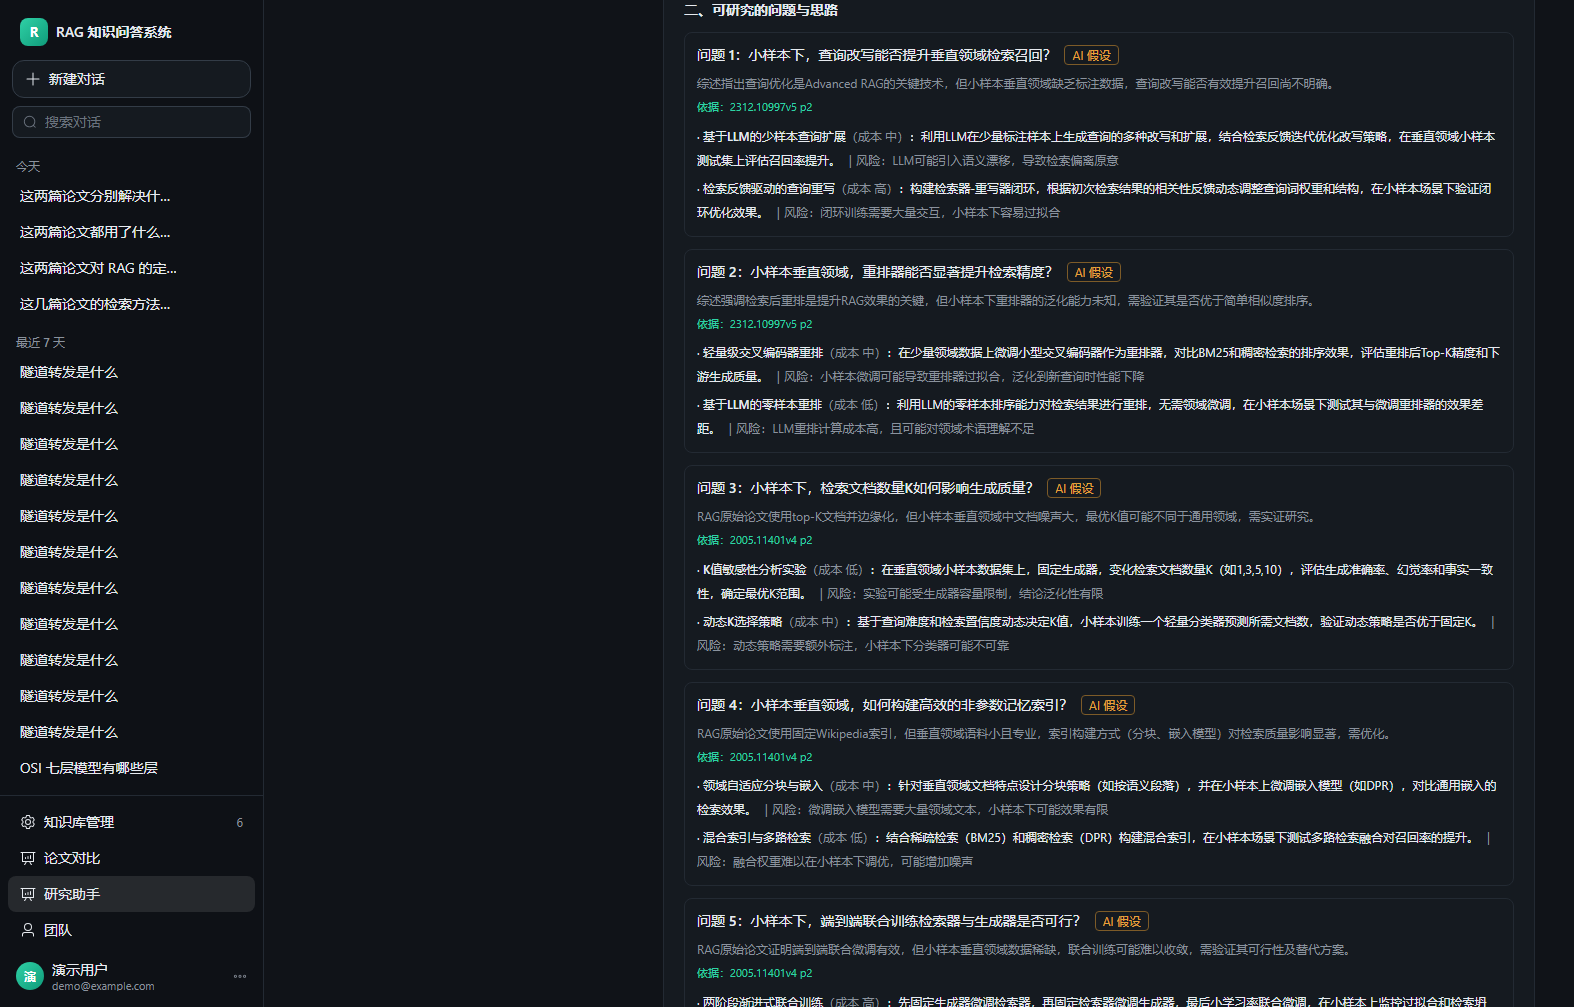
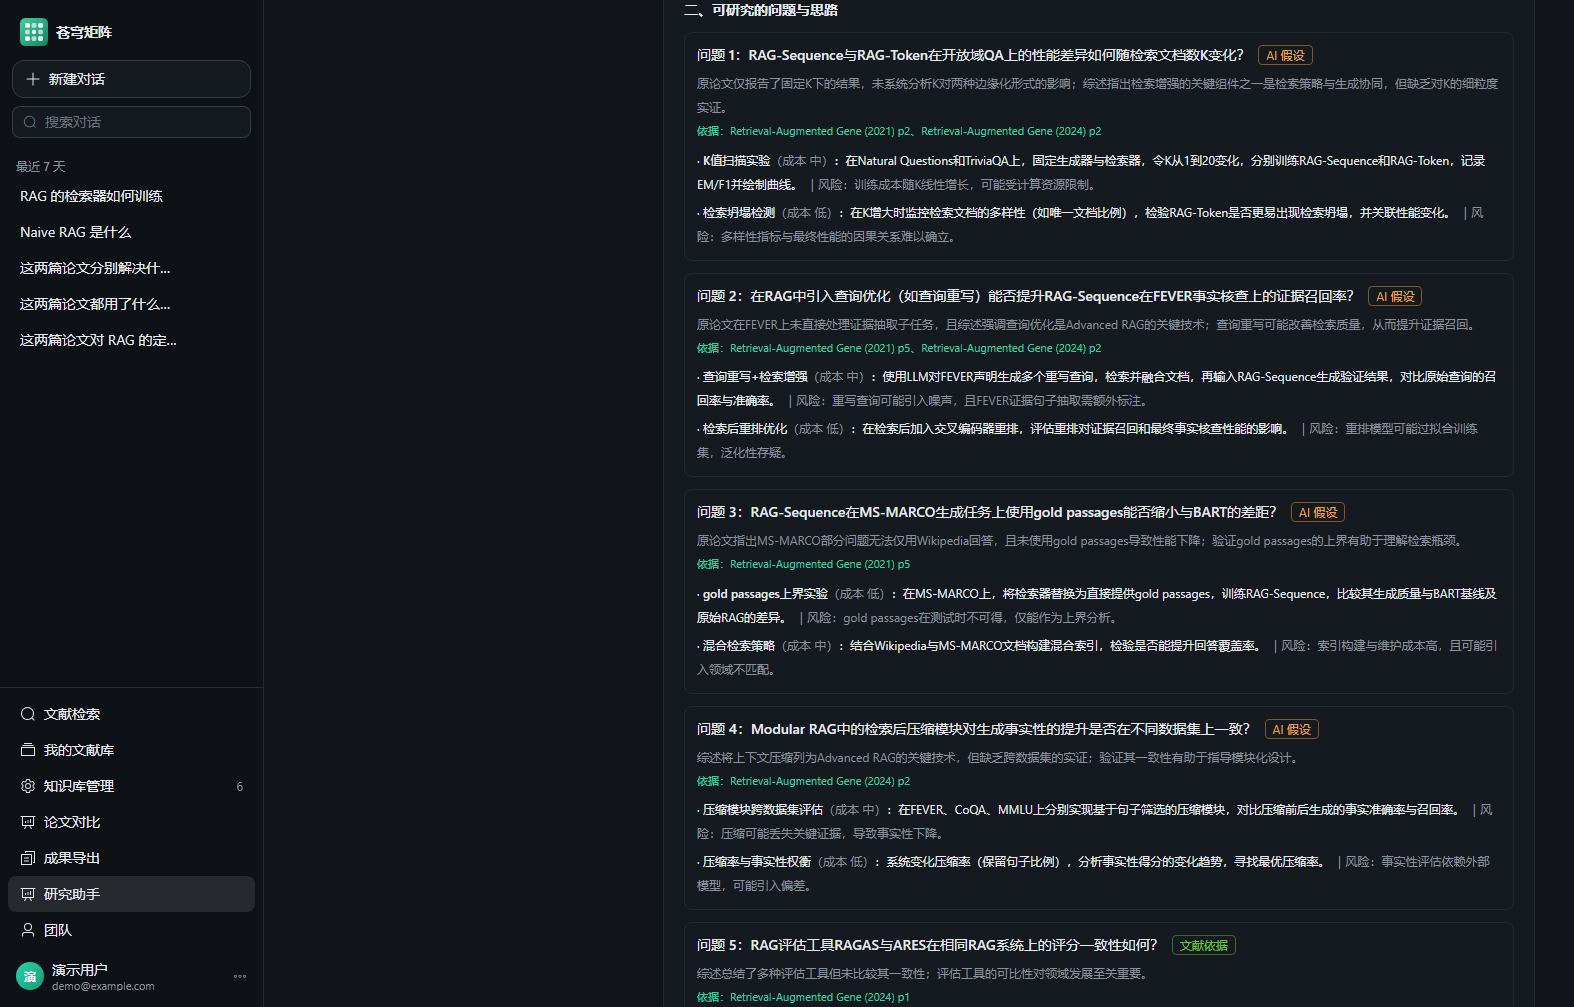
chore(screenshots): 用最新界面重拍所有 README/文档截图
仓库里的截图还是旧版界面：侧边栏是字母 `R`、标题写「RAG 知识问答系统」，
而且研究助手的正文里还露着 `doc_4vzampyjkyna` 这种原始 id。
评委打开 GitHub 看到的就是这些过期图。

## 重拍的图（对比 / 研究 / 导出 / 团队 / 知识库 / 首页 / 问答）

| 目录 | 张数 | 说明 |
| --- | --- | --- |
| `docs/screenshots/` | 5 | 首页、问答（真实提问+引用）、知识库、上传弹窗 |
| `docs/screenshots/compare/` | 2 | 对比结果 + 矩阵（每格带页码） |
| `docs/screenshots/research/` | 3 | 方向 / 问题 / 创新空间 |
| `docs/screenshots/reports/` | 2 | 报告预览 + 参考文献格式 |
| `docs/screenshots/teams/` | 8 | 团队全流程 |

统一条件：**当前品牌徽标 + 学术向文案 + 干净数据**（清掉了「规章制度库 /
产品需求文档库 / test」这类残留知识库，以及 50 条「隧道转发 / OSI 七层模型」
测试对话，同名对话去重）。

## 顺带修的真 bug：研究助手正文漏 documentId

`_humanize_refs` 之前只作用于「方向 / 问题」两段，
**「创新空间（coverage / openings）」和「相关工作」漏了**，
界面上直接显示 `doc_4vzampyjkyna`、`doc_zja13gzdzbzk`。

- `_normalize_novelty()` 里对 `aspect / covered / opening / why_open` 做替换
- 相关工作分组对 `theme / summary / note` 做替换
- 已生成的 4 份报告用一次性脚本回填（21 处），不重新调模型

## 新增截图脚本

- `shots-chat.mjs`：真实发问、等回答出引用，再截图（原来的 `05-chat-answer.png`
  其实截的是空态）
- `shots-knowledge.mjs`：自动选中「学术文献 · RAG」再截，避免截到空库

> 本地 Chroma 索引在这次重启后损坏（17 篇全部写入失败），
> 已按 `docs/vectorstore.md` 的流程重建：17 篇 ready / 1651 段。

Changed region(s): [[0.4358, 0.0308, 0.9651, 1.0], [0.0, 0.1539, 0.1245, 0.862], [0.0, 0.0, 0.0934, 0.0616]]

diff --git a/server/app/services/research.py b/server/app/services/research.py
@@ -272,6 +272,18 @@ def _normalize_novelty(data: Any, profiles: list[PaperProfile]) -> dict[str, Any
         item["confidence"] = confidence if confidence in ("low", "medium", "high") else "low"
         # 创新性判断永远只能算假设，不允许被标成 evidence
         item["kind"] = "hypothesis"
+
+    # 模型很爱在正文里直接写 documentId（`doc_4vzampyjkyna`），对用户毫无意义。
+    # 方向和问题那两段早就做了替换，但覆盖分析/创新空间这两段漏了，界面上会露出原始 id。
+    for item in coverage:
+        for key in ("aspect", "covered"):
+            if item.get(key):
+                item[key] = compare._humanize_refs(item[key], profiles)
+    for item in openings:
+        for key in ("opening", "why_open"):
+            if item.get(key):
+                item[key] = compare._humanize_refs(item[key], profiles)
+
     return {
         "coverage": coverage,
         "openings": openings,
@@ -557,6 +569,11 @@ async def run_brief(brief_id: str) -> None:
                     data.get("further_reading"), usable, default_kind="suggestion"
                 ),
             }
+            # 相关工作的主题/小结里同样会写 documentId，一并换成人能读的标题
+            for item in related["groups"]:
+                for key in ("theme", "summary", "note"):
+                    if item.get(key):
+                        item[key] = compare._humanize_refs(item[key], usable)
             related_docs = await _local_related_docs(db, [p.document_id for p in usable])
             await _save(
                 db,
